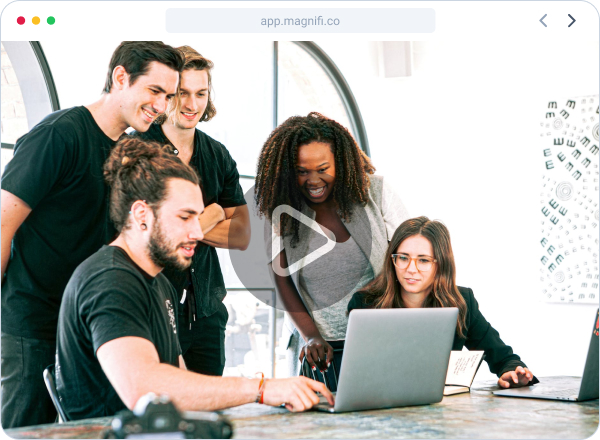
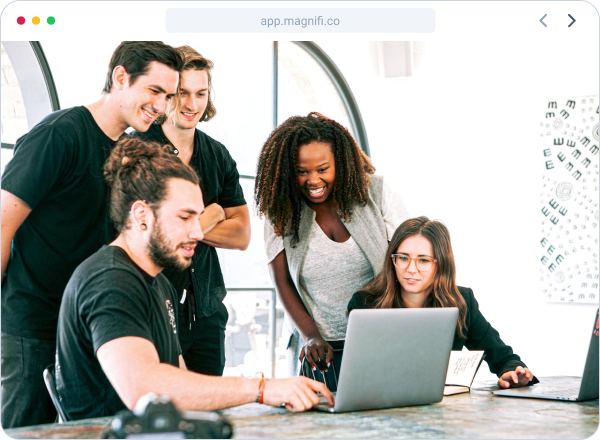
Tools block

Changed region(s): [[0.36, 0.3841, 0.63, 0.7091]]

diff --git a/src/styles/blocks/tools.scss b/src/styles/blocks/tools.scss
@@ -1,0 +1,102 @@
+@use '../utils/vars' as *;
+
+.tools {
+  padding: 80px 0 100px;
+  border-bottom: 1px solid $gray-200;
+
+  &__inner {
+    display: flex;
+    align-items: center;
+    gap: 80px;
+  }
+
+  // ─── Left: text ────────────────────────────
+
+  &__content {
+    flex: 1;
+    min-width: 0;
+  }
+
+  &__title {
+    margin-bottom: 20px;
+    font-size: 46px;
+    font-weight: 800;
+    line-height: 1.1;
+    letter-spacing: -1.5px;
+    color: $black;
+  }
+
+  &__desc {
+    margin-bottom: 28px;
+    font-size: 16px;
+    line-height: 1.7;
+    color: $gray-500;
+  }
+
+  &__link {
+    display: inline-flex;
+    align-items: center;
+    gap: 6px;
+    font-size: 15px;
+    font-weight: 600;
+    color: $blue;
+    transition: gap $tran-dur, color $tran-dur;
+
+    &:hover {
+      color: $blue-hover;
+      gap: 10px;
+    }
+  }
+
+  // ─── Right: chart ──────────────────────────
+
+  &__visual {
+    display: flex;
+    justify-content: center;
+    align-items: center;
+  }
+
+  &__img {
+    width: 100%;
+    height: auto;
+    display: block;
+  }
+}
+
+// ─── Responsive ──────────────────────────────
+
+@media (max-width: 925px) {
+  .tools {
+    padding: 50px 0 60px;
+
+    &__inner {
+      flex-direction: column-reverse;
+      gap: 40px;
+    }
+
+    &__visual {
+      width: 100%;
+    }
+
+    &__img {
+      width: 60%;
+    }
+
+    &__title {
+      font-size: 36px;
+    }
+  }
+}
+
+@media (max-width: 576px) {
+  .tools {
+    &__img {
+      width: 80%;
+    }
+
+    &__title {
+      font-size: 30px;
+      letter-spacing: -0.5px;
+    }
+  }
+}

diff --git a/src/index.html b/src/index.html
@@ -142,6 +142,26 @@
         </div>
       </section>
 
+      <section class="tools">
+        <div class="container">
+          <div class="tools__inner">
+
+            <!-- Left: text -->
+            <div class="tools__content">
+              <h2 class="tools__title">Get all the tools your team needs</h2>
+              <p class="tools__desc">Egestas fringilla aliquam leo, habitasse arcu varius lorem elit. Neque pellentesque donec et tellus ac varius tortor, bibendum. Nulla felis ac turpis at amet. Purus malesuada placerat arcu at enim elit in accumsan.</p>
+              <a href="#" class="tools__link">Check the tools &rarr;</a>
+            </div>
+
+            <!-- Right: chart -->
+            <div class="tools__visual">
+              <img src="/images/get-all-tools/get-all-tools-chart.jpg" alt="Tools chart" class="tools__img" />
+            </div>
+
+          </div>
+        </div>
+      </section>
+
     </main>
 
     <footer class="footer">

diff --git a/src/styles/blocks/hero.scss b/src/styles/blocks/hero.scss
@@ -144,7 +144,7 @@
   &__browser {
     position: relative;
     z-index: 1;
-    border-radius: 12px;
+    border-radius: 18px;
     overflow: hidden;
     box-shadow: 0 20px 60px rgba(0, 0, 0, 0.12), 0 4px 16px rgba(0, 0, 0, 0.06);
   }

diff --git a/src/styles/main.scss b/src/styles/main.scss
@@ -5,6 +5,7 @@
 @use './blocks/header';
 @use './blocks/hero';
 @use './blocks/enjoy';
+@use './blocks/tools';
 @use './blocks/footer';
 
 body {
